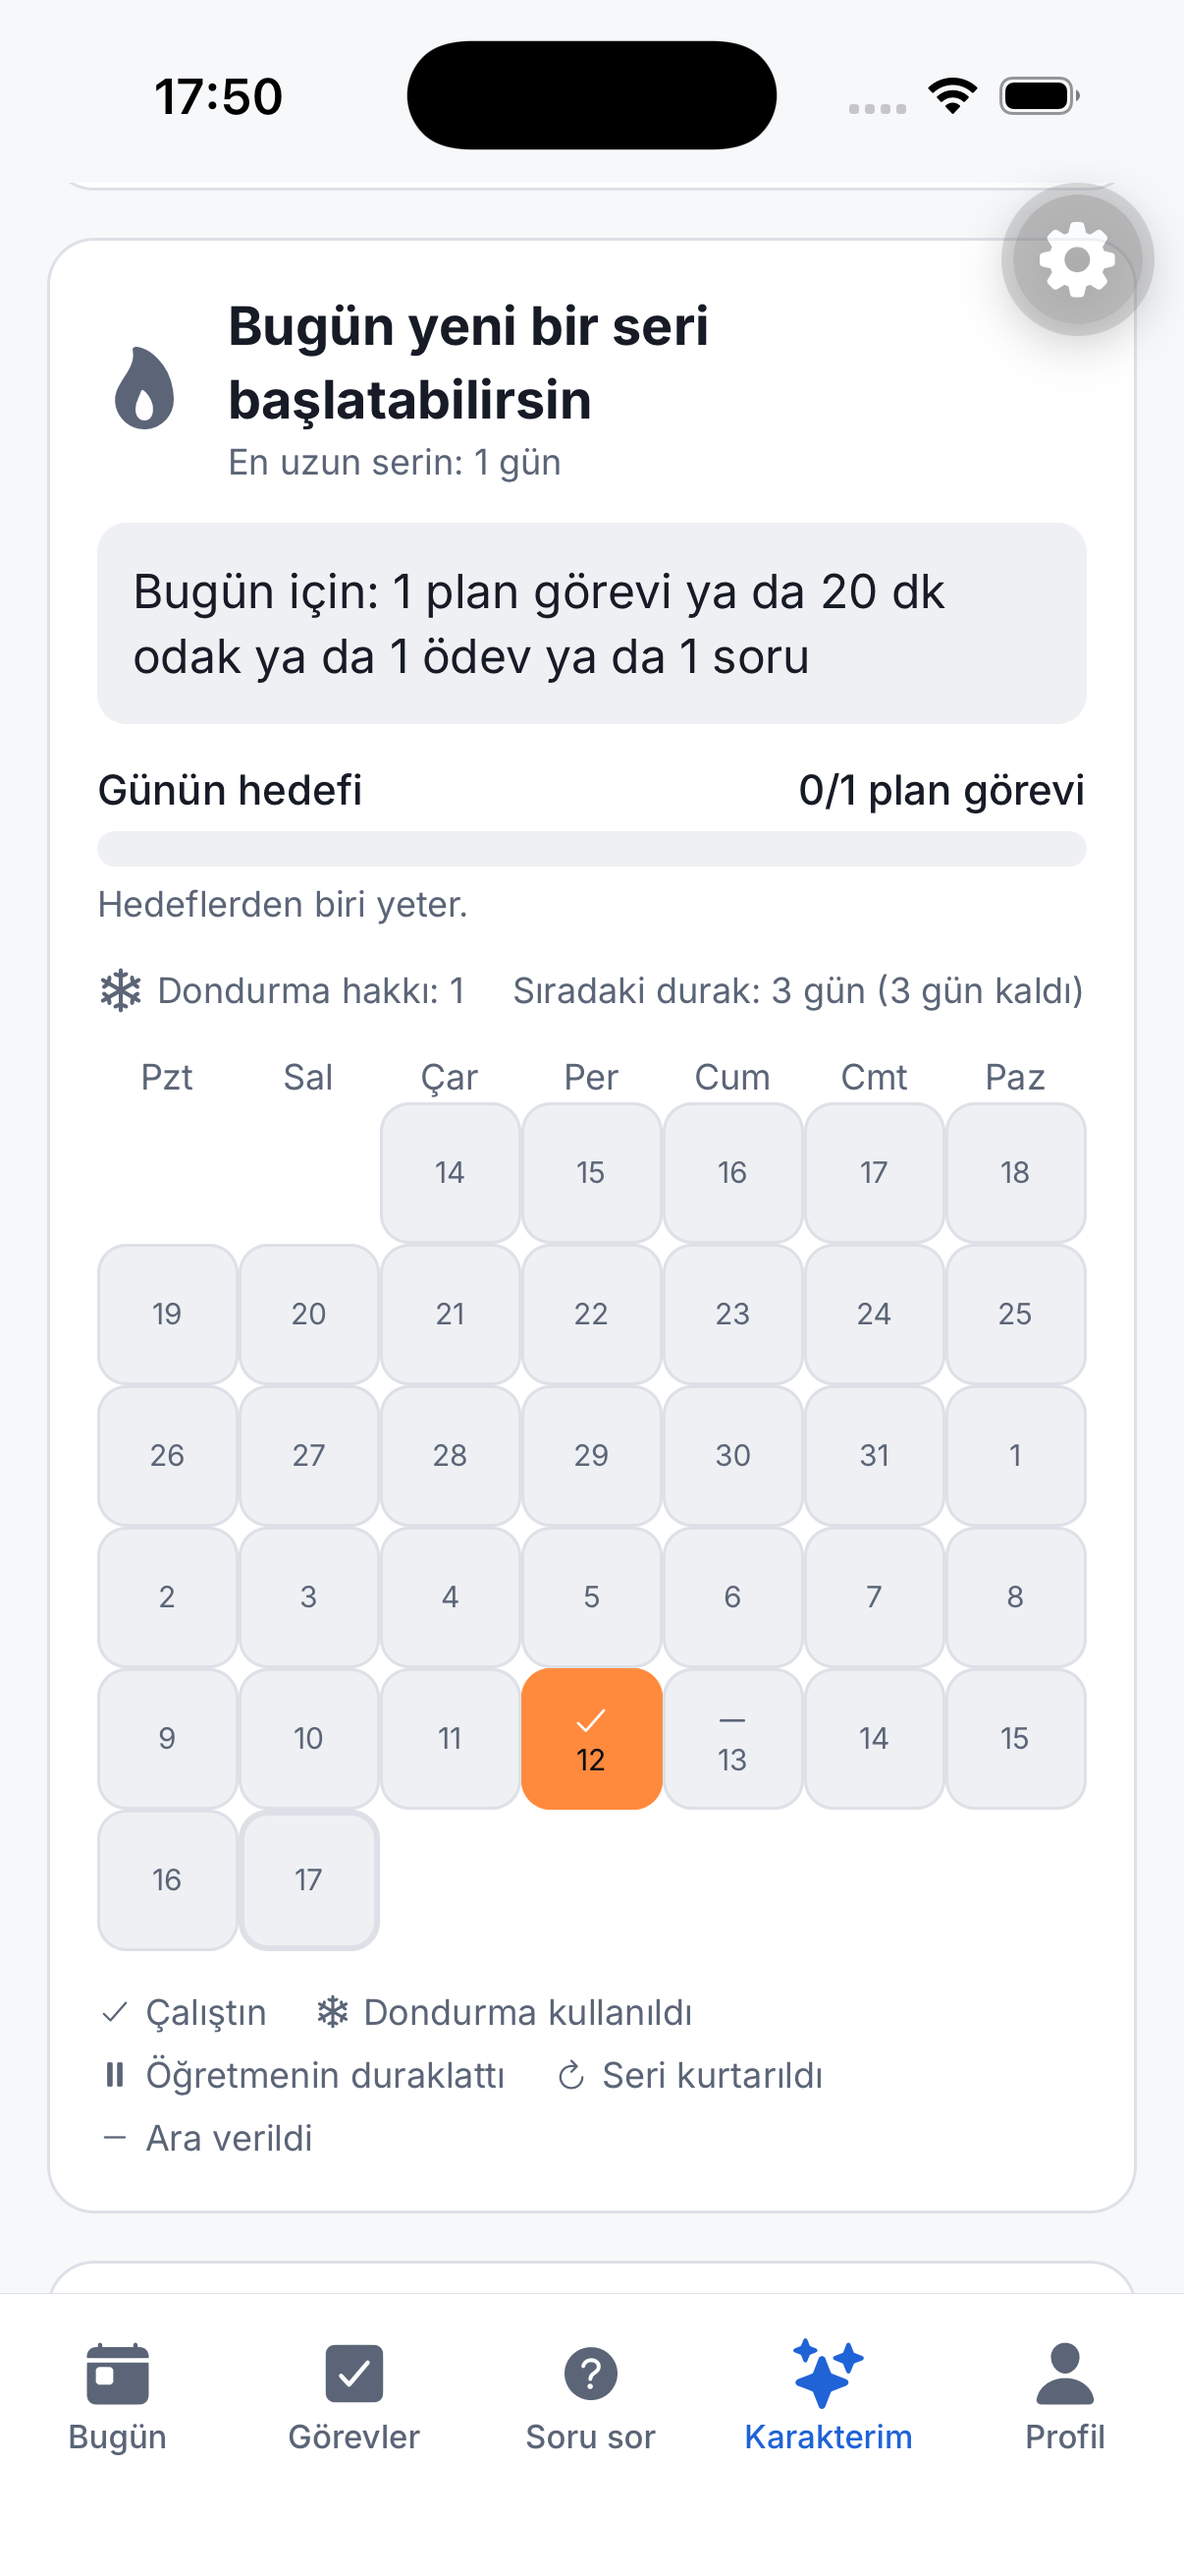
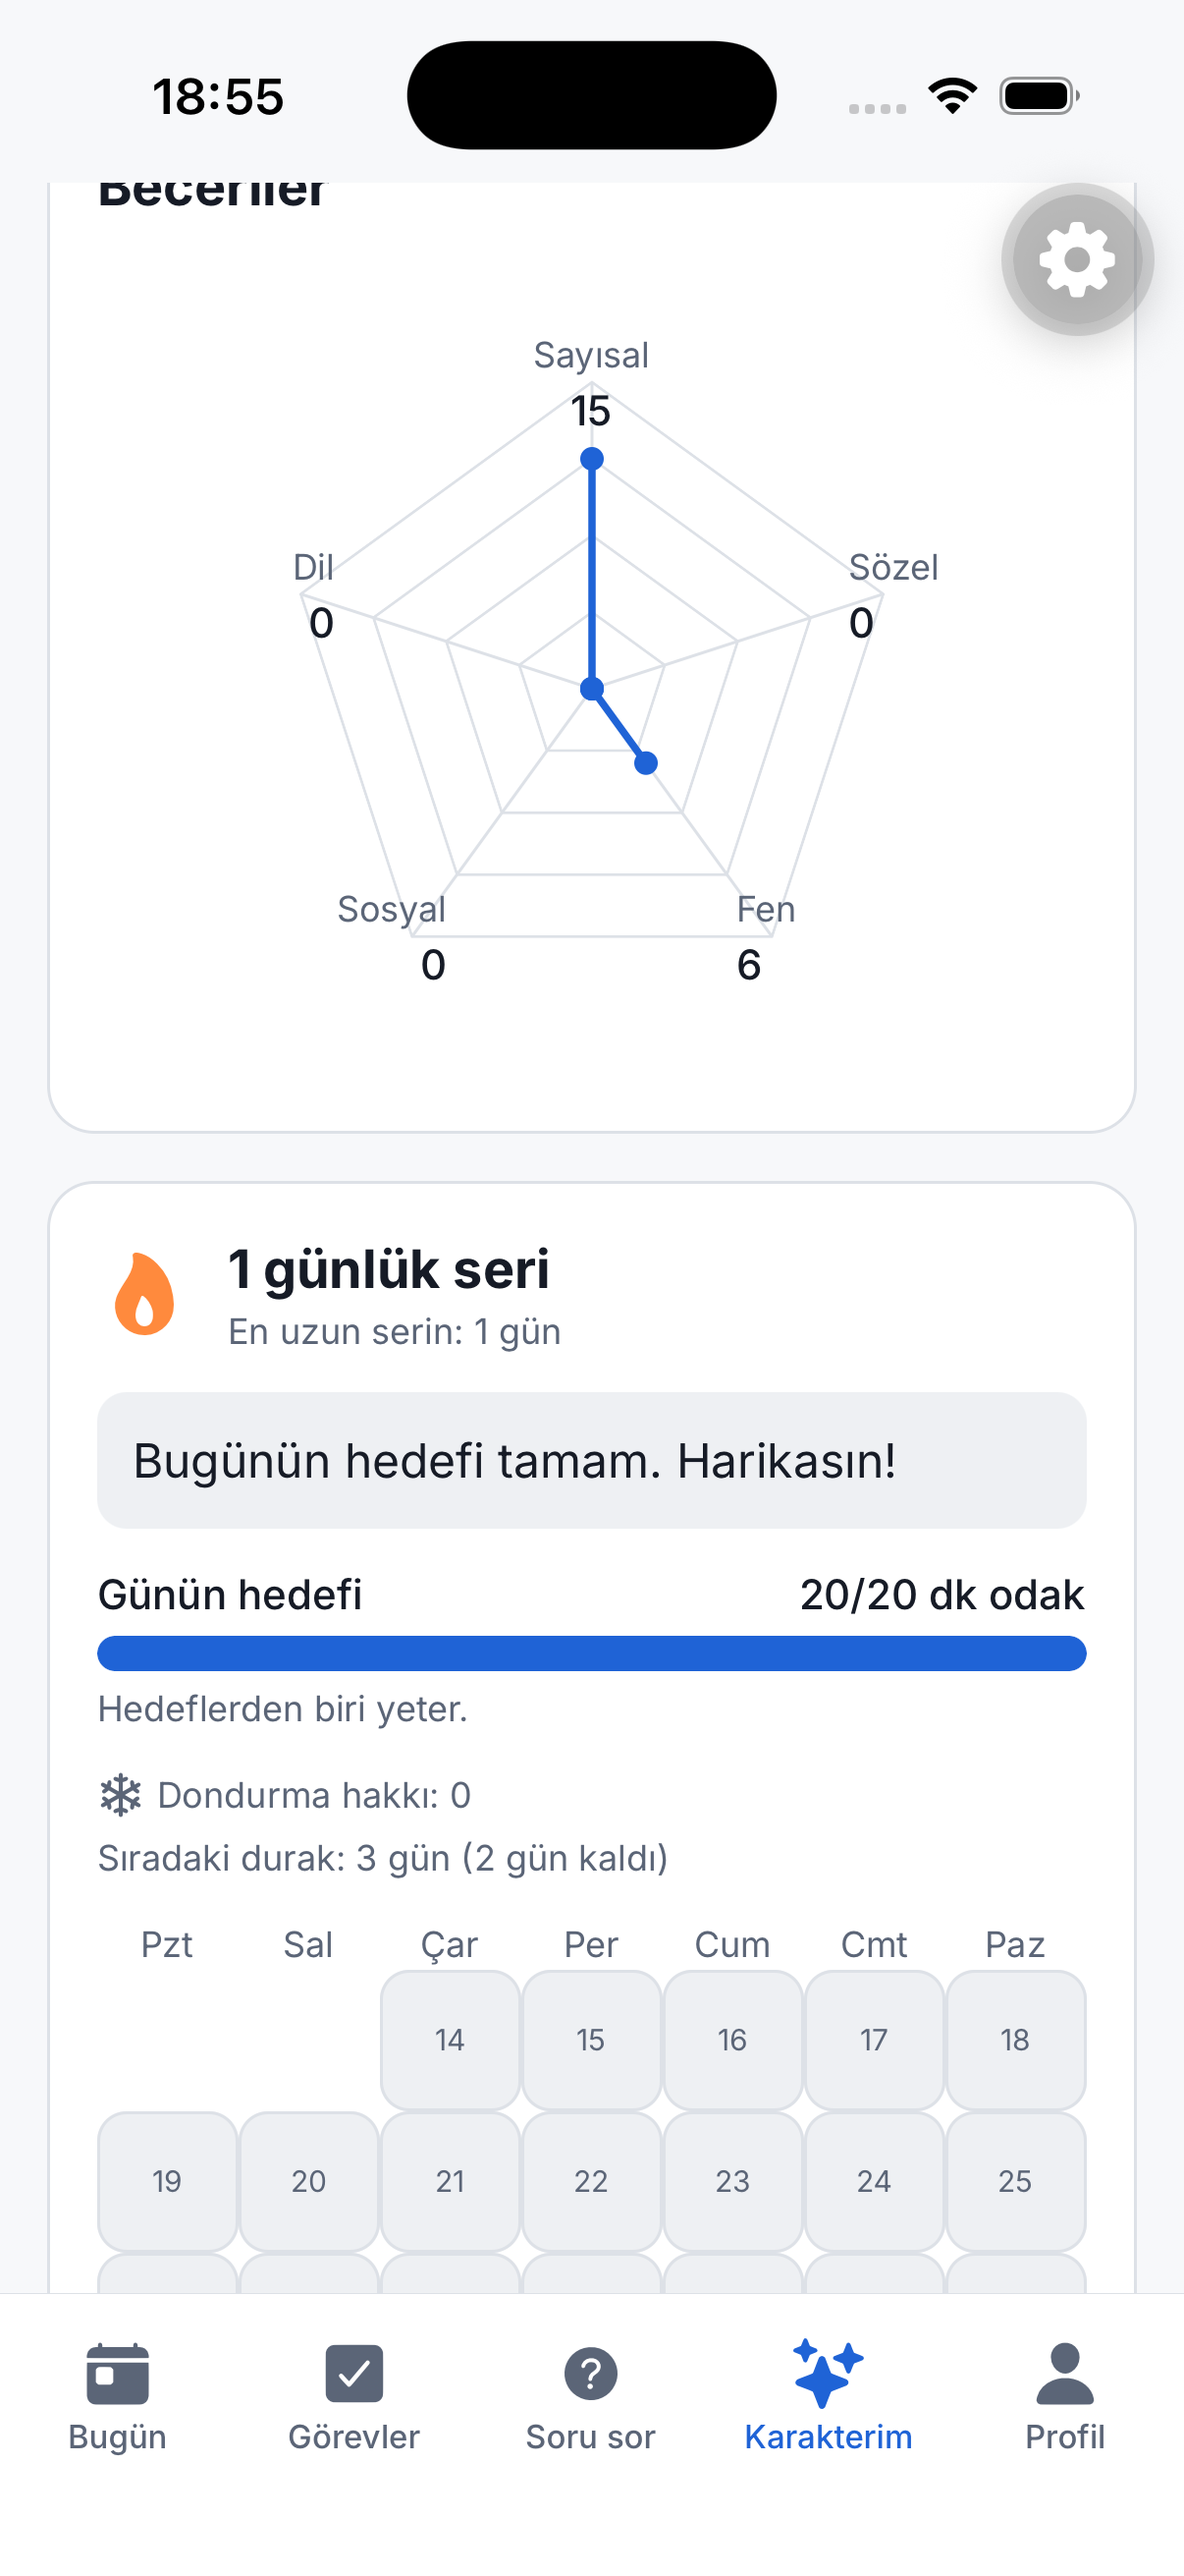
fix(mobil): yıldız mesajında ad yedeği, radar etiket boşluğu, odakta ders alanı sırası

diff --git a/apps/mobile/src/ekranlar/motivasyon/BeceriRadari.tsx b/apps/mobile/src/ekranlar/motivasyon/BeceriRadari.tsx
@@ -19,7 +19,7 @@ interface Props {
   boyut?: number;
 }
 
-const ETIKET_PAYI = 44;
+const ETIKET_PAYI = 62;
 
 /**
  * Beceri grafigi (besgen). Etiketler ve puanlar RN metni olarak cizilir (yazi boyutuna uyar, renk
@@ -41,12 +41,12 @@ export function BeceriRadari({ beceriler, boyut = 220 }: Props) {
       accessibilityRole="image"
       accessibilityLabel={radarMetni(beceriler)}
       testID="beceri-radari"
-      style={{ width: kapsam, height: boyut + 36 + 24, alignSelf: 'center' }}
+      style={{ width: kapsam, height: boyut + 44 + 40, alignSelf: 'center' }}
     >
       <View
         importantForAccessibility="no-hide-descendants"
         accessibilityElementsHidden
-        style={{ position: 'absolute', left: ETIKET_PAYI, top: 36, width: boyut, height: boyut }}
+        style={{ position: 'absolute', left: ETIKET_PAYI, top: 44, width: boyut, height: boyut }}
       >
         <Svg width={boyut} height={boyut}>
           {[0.25, 0.5, 0.75, 1].map((oran) => (
@@ -86,7 +86,7 @@ export function BeceriRadari({ beceriler, boyut = 220 }: Props) {
         </Svg>
       </View>
       {beceriler.map((b, i) => {
-        const u = radarNoktasi(i, n, 1.2, merkez, yaricap);
+        const u = radarNoktasi(i, n, 1.42, merkez, yaricap);
         const solda = u.x < merkez - 4;
         const sagda = u.x > merkez + 4;
         const genislik = 84;
@@ -98,7 +98,7 @@ export function BeceriRadari({ beceriler, boyut = 220 }: Props) {
             style={{
               position: 'absolute',
               left: sol,
-              top: 36 + u.y - 18,
+              top: 44 + u.y - 18,
               width: genislik,
               alignItems: solda ? 'flex-end' : sagda ? 'flex-start' : 'center',
             }}

diff --git a/apps/mobile/src/ekranlar/Odaklan.tsx b/apps/mobile/src/ekranlar/Odaklan.tsx
@@ -345,6 +345,19 @@ export function Odaklan() {
           />
         </View>
       ) : null}
+      {hata ? (
+        <Metin varyant="ikincil" className="text-center text-hata" accessibilityLiveRegion="polite">
+          {hata}
+        </Metin>
+      ) : null}
+      <Dugme
+        buyuk
+        className="self-stretch"
+        etiket={t('mobil.odaklan.baslat')}
+        yukleniyor={baslatiyor}
+        onPress={() => void baslat()}
+        testID="odak-baslat"
+      />
       {gorevler.length > 0 ? (
         <View className="gap-2 self-stretch" testID="odak-gorevler">
           <Metin varyant="etiket">{t('mobil.motivasyon.odak.gorevSec')}</Metin>
@@ -396,19 +409,6 @@ export function Odaklan() {
           </View>
         </View>
       ) : null}
-      {hata ? (
-        <Metin varyant="ikincil" className="text-center text-hata" accessibilityLiveRegion="polite">
-          {hata}
-        </Metin>
-      ) : null}
-      <Dugme
-        buyuk
-        className="self-stretch"
-        etiket={t('mobil.odaklan.baslat')}
-        yukleniyor={baslatiyor}
-        onPress={() => void baslat()}
-        testID="odak-baslat"
-      />
     </Ekran>
   );
 }

diff --git a/apps/mobile/src/ekranlar/motivasyon/GrupMotivasyonEkrani.tsx b/apps/mobile/src/ekranlar/motivasyon/GrupMotivasyonEkrani.tsx
@@ -62,7 +62,8 @@ function YildizBolumu({ grupId }: { grupId: string }) {
       });
     },
     onSuccess: (s) => {
-      const ad = ogrenciler.data?.find((o) => o.ogrenciId === s.yildiz.ogrenci_id)?.ad ?? '';
+      const bulunan = ogrenciler.data?.find((o) => o.ogrenciId === s.yildiz.ogrenci_id)?.ad;
+      const ad = bulunan ? bulunan : t('mobil.ogrenciler.adsiz');
       setMesaj(t('mobil.motivasyon.yildiz.verildi', { ad, xp: s.xp }));
       setSecili(null);
       setGerekce('');
